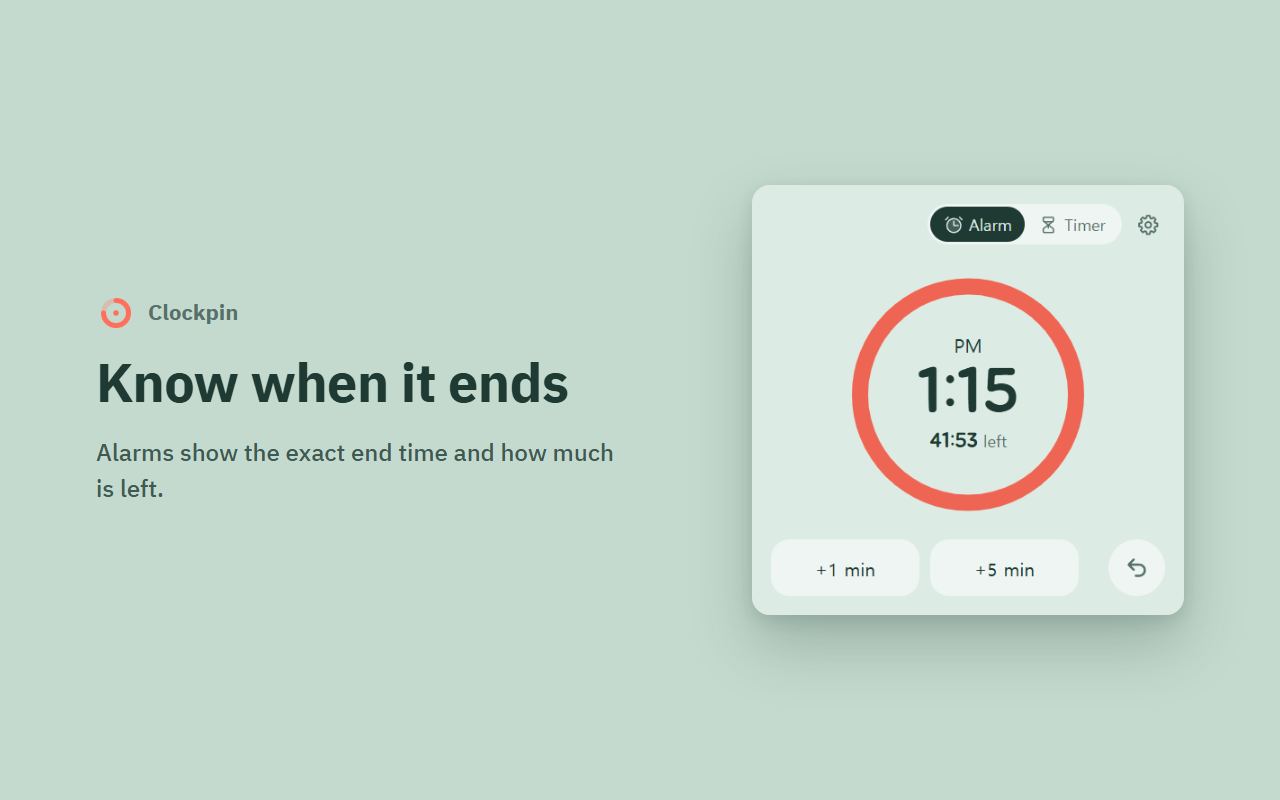
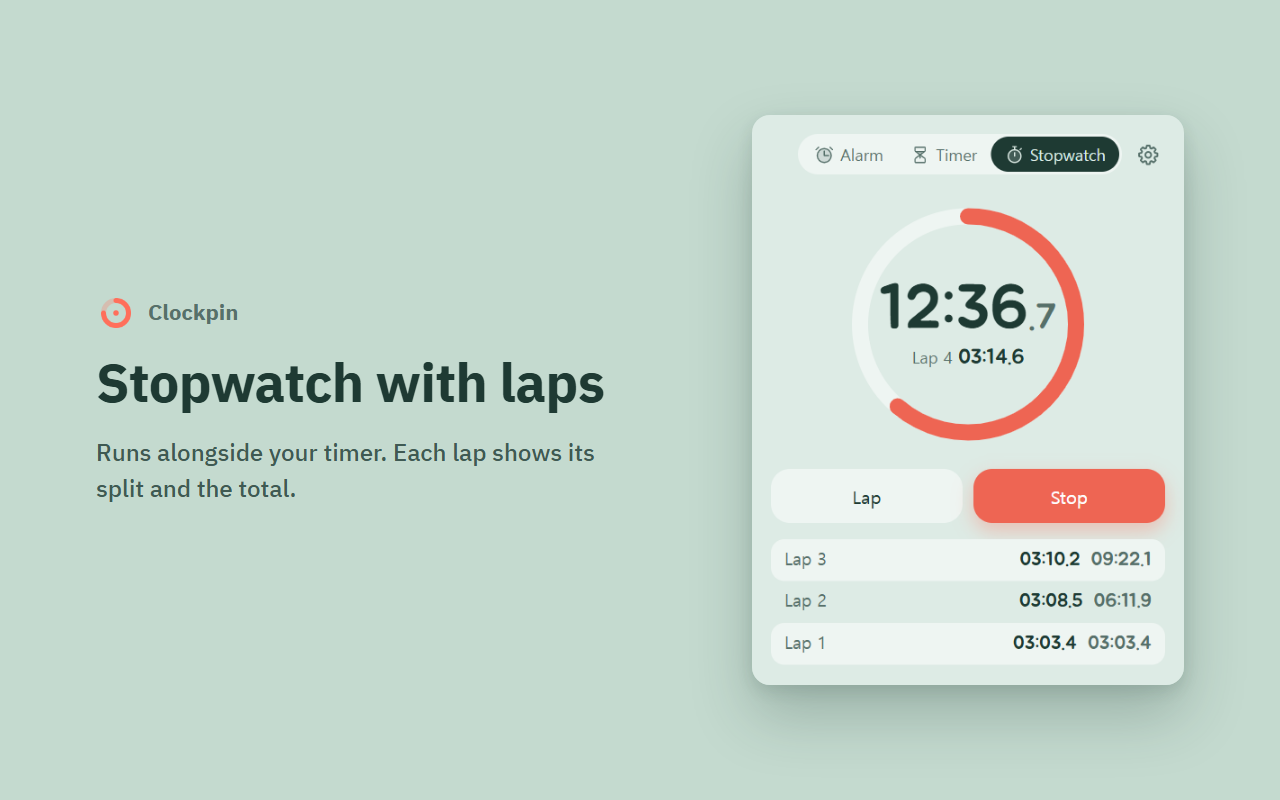
0.2.0 제출 준비: 버전, 요약·설명문, 스크린샷
요약(en·ko)과 자세한 설명에 스톱워치 소개, 배지 예시를 9:59로.
단일 목적·storage 권한 문장에 스톱워치 반영.
스크린샷 4번을 알람 진행 → 스톱워치(랩)로, 세 탭이 보이게 5장 모두 다시 찍음.
compose.py의 다른 PC 절대 경로를 스크립트 기준 상대 경로로.

Not-tested: 대시보드 업로드·심사(사용자가 직접)
Confidence: high

diff --git a/store/tools/compose.py b/store/tools/compose.py
@@ -3,23 +3,23 @@ import os, subprocess, pathlib
 from PIL import Image
 
 S = pathlib.Path(__file__).parent
-STORE = pathlib.Path(r'C:/Users/7make/Dev/Clockpin_261005/store')
+STORE = S.parent
 CHROME = r'C:\Program Files\Google\Chrome\Application\chrome.exe'
-ICON = pathlib.Path(r'C:/Users/7make/Dev/Clockpin_261005/extension/icons/icon128.png')
+ICON = S.parent.parent / 'extension' / 'icons' / 'icon128.png'
 
 CAP = {
     'en': [('Pick the exact time', 'Spin the dial to when you want the alarm — or tap +5m, +10m, +1h.'),
            ('Count down, too', 'Hours, minutes and seconds. Clockpin remembers the last time you used.'),
            ('Pause, add, cancel', 'A big countdown ring, with +1 min and +5 min a click away.'),
-           ('Know when it ends', 'Alarms show the exact end time and how much is left.'),
+           ('Stopwatch with laps', 'Runs alongside your timer. Each lap shows its split and the total.'),
            ("Hard to miss", 'A sound, a notification and a small window when time is up. Snooze in one click.')],
     'ko': [('끝나는 시각을 바로 고르기', '다이얼을 돌려 알람 시각을 맞추거나 +5분, +10분, +1시간을 누르세요.'),
            ('거꾸로 세는 타이머도', '시·분·초로 맞추고, 마지막에 쓴 시간을 기억해요.'),
            ('일시정지, 1분 더, 취소', '남은 시간이 링에 크게 보이고, +1분·+5분은 클릭 한 번이에요.'),
-           ('언제 끝나는지 한눈에', '알람은 끝나는 시각과 남은 시간을 함께 보여 줘요.'),
+           ('랩까지 재는 스톱워치', '타이머와 따로 돌아요. 랩마다 구간 시간과 누적 시간이 보여요.'),
            ('시간이 되면 확실하게', '알림음, 알림, 작은 창으로 알려 줘요. 「5분 더」도 한 번에.')],
 }
-RAW = ['1-alarm', '2-timer', '3-timer-run', '4-alarm-run', '5-alert']
+RAW = ['1-alarm', '2-timer', '3-timer-run', '4-stopwatch', '5-alert']
 
 PAGE = """<!doctype html><html><head><meta charset="utf-8">
 <link rel="stylesheet" href="https://fonts.googleapis.com/css2?family=IBM+Plex+Sans+KR:wght@500;700&display=block">

diff --git a/store/tools/shots.py b/store/tools/shots.py
@@ -78,11 +78,12 @@ async def main():
             await asyncio.sleep(3)
             await theme(sid, 'dark')
             await shot(sid, '3-timer-run', 320)
-            # 4 알람 진행(밝게): 42분 뒤 정각 분
-            await ev(sid, "chrome.runtime.sendMessage({cmd:'startAt', endAt: Math.floor(Date.now()/60000)*60000 + 42*60000}).then(()=>1)")
-            await asyncio.sleep(1.5)
+            # 4 스톱워치(밝게): 12분 34초째, 랩 3개
+            await ev(sid, "chrome.storage.local.set({sw:{acc:0,start:Date.now()-754300,on:true,laps:[183400,371900,562100]}}).then(()=>1)")
+            await ev(sid, "chrome.runtime.sendMessage({cmd:'add', secs:0}).then(()=>1)")
             await theme(sid, 'light')
-            await shot(sid, '4-alarm-run', 320)
+            await ev(sid, "document.querySelector('[data-tab=sw]').click(); 1")
+            await shot(sid, '4-stopwatch', 320)
             # 5 시간 됐을 때 알림 창(어둡게)
             await ev(sid, "chrome.runtime.sendMessage({cmd:'start', secs:2}).then(()=>1)")
             await asyncio.sleep(4)

diff --git a/store/listing.md b/store/listing.md
@@ -1,6 +1,6 @@
 # Clockpin — 웹스토어 등록 자료
 
-2026-10-05 버전 0.1.0을 검토 제출했다(사용자가 실제 크롬에서 동작 확인 후). 다음 버전은 `manifest.json`의 `version`을 올리고 zip을 다시 만든다.
+2026-10-05 버전 0.1.0을 검토 제출했다(사용자가 실제 크롬에서 동작 확인 후). 2026-10-19 0.2.0(스톱워치 탭, 배지 초 단위) 자료를 준비했다 — 대시보드 제출은 사용자가 한다. 다음 버전도 `manifest.json`의 `version`을 올리고 zip을 다시 만든다. 이전 버전이 아직 심사 중이면 대시보드에서 「검토 취소」 후 새 패키지를 올린다.
 
 개발자 대시보드에 그대로 붙여 넣을 내용이다. 영어가 기본 언어이고, 한국어는 대시보드의 「언어 추가」로 넣는다.
 
@@ -10,11 +10,11 @@
 - 스크린샷 1280×800 5장: `store/screenshots/en/1~5.png`, 한국어판 `store/screenshots/ko/1~5.png`
 - 작은 홍보 타일 440×280(필수): `store/promo-small-440x280.png`. 홍보 이미지는 언어별로 못 나누므로 영어로 만들었다.
 - 큰 홍보 타일 1400×560: 선택 사항이라 만들지 않았다.
-- 제출용 zip: `store/clockpin-0.1.0.zip` (`extension/` 내용, `manifest.json`이 맨 위). `.gitignore`가 `*.zip`을 무시하므로 git에는 안 올라간다.
+- 제출용 zip: `store/clockpin-0.2.0.zip` (`extension/` 내용, `manifest.json`이 맨 위). `.gitignore`가 `*.zip`을 무시하므로 git에는 안 올라간다.
 
 스크린샷을 다시 찍을 때: `python store/tools/shots.py <확장 폴더> store/tools/raw_ko`(영어는 `_locales/ko`를 지운 사본으로 `raw_en`), 이어서 `python store/tools/compose.py`. 크롬 실행 파일 경로와 파이썬 `websockets`·`Pillow`가 필요하다.
 
-스크린샷 순서: 1 알람 다이얼 · 2 타이머 다이얼 · 3 타이머 진행 · 4 알람 진행 · 5 시간이 됐을 때 알림 창.
+스크린샷 순서: 1 알람 다이얼 · 2 타이머 다이얼 · 3 타이머 진행 · 4 스톱워치(랩) · 5 시간이 됐을 때 알림 창.
 
 ## 스토어 등록정보
 
@@ -23,13 +23,13 @@
 
 ### 요약(manifest에서 자동으로 들어감, 132자 이내)
 
-- en(100자): Pick the exact time on a dial and get alerted right then — from your toolbar. A countdown timer too.
-- ko: 툴바에서 다이얼로 끝나는 시각을 골라 그때 딱 알려 주는 알람. 거꾸로 세는 타이머도 함께.
+- en(114자): Pick the exact time on a dial and get alerted right then — from your toolbar. A countdown timer and stopwatch too.
+- ko: 툴바에서 다이얼로 끝나는 시각을 골라 그때 딱 알려 주는 알람. 거꾸로 세는 타이머와 스톱워치도 함께.
 
 ### 자세한 설명 — English
 
 ```
-Clockpin is an alarm and countdown timer that lives in your toolbar. Spin a dial to the exact time you want to be reminded, or set a countdown — and get a clear alert when time is up.
+Clockpin is an alarm, countdown timer and stopwatch that lives in your toolbar. Spin a dial to the exact time you want to be reminded, or set a countdown — and get a clear alert when time is up.
 
 Alarm
 • Spin the dial to the time you want (hour, minute, AM/PM), or tap +1m, +5m, +10m, +25m or +1h.
@@ -40,12 +40,16 @@ Timer
 • Pause and resume, or add 1 or 5 minutes while it runs.
 • Clockpin remembers the last time you used, so a 25-minute timer is one click away next time.
 
+Stopwatch
+• Start, stop, resume and reset. Laps show each split and the running total.
+• Runs alongside an alarm or timer, and keeps going when the popup is closed.
+
 When time is up
 • A sound, a desktop notification and a small alert window (each can be turned off).
 • Snooze for 1 or 5 more minutes, or dismiss, in one click.
 
 Also
-• The toolbar badge shows the time left (for example 24m, then 45s).
+• The toolbar badge shows the time left (for example 24m, then 9:59 in the last 10 minutes).
 • Right-click the toolbar icon to start a preset timer (5, 10, 25, 60 minutes by default — change them in Settings).
 • Light and dark themes, or follow your computer.
 • English and Korean.
@@ -56,7 +60,7 @@ Privacy: Clockpin does not collect, send or share any data. Your timer and setti
 ### 자세한 설명 — 한국어
 
 ```
-Clockpin은 툴바에 있는 알람·타이머예요. 다이얼을 돌려 알려 줄 시각을 딱 고르거나, 거꾸로 세는 타이머를 맞추면 시간이 됐을 때 확실하게 알려 줘요.
+Clockpin은 툴바에 있는 알람·타이머·스톱워치예요. 다이얼을 돌려 알려 줄 시각을 딱 고르거나, 거꾸로 세는 타이머를 맞추면 시간이 됐을 때 확실하게 알려 줘요.
 
 알람
 • 다이얼로 시각(오전/오후·시·분)을 고르거나 +1분, +5분, +10분, +25분, +1시간을 누르세요.
@@ -67,12 +71,16 @@ Clockpin은 툴바에 있는 알람·타이머예요. 다이얼을 돌려 알려
 • 일시정지·계속, 도는 중에 +1분·+5분.
 • 마지막에 쓴 시간을 기억해서, 25분 타이머는 다음에도 클릭 한 번이에요.
 
+스톱워치
+• 시작·정지·계속·초기화. 랩마다 구간 시간과 누적 시간이 보여요.
+• 알람·타이머와 따로 돌고, 팝업을 닫아도 계속 재요.
+
 시간이 됐을 때
 • 알림음, 바탕화면 알림, 작은 알림 창으로 알려 줘요(각각 끌 수 있어요).
 • 「1분 더」「5분 더」「끄기」를 한 번에.
 
 그 밖에
-• 툴바 아이콘 위에 남은 시간이 보여요(예: 24m, 45s).
+• 툴바 아이콘 위에 남은 시간이 보여요(예: 24m, 남은 10분부터는 9:59).
 • 툴바 아이콘을 우클릭하면 정해 둔 시간(기본 5·10·25·60분)으로 바로 타이머를 시작해요. 시간은 설정에서 바꿀 수 있어요.
 • 밝게·어둡게, 또는 컴퓨터 설정 따라가기.
 • 영어·한국어 화면.
@@ -85,7 +93,7 @@ Clockpin은 툴바에 있는 알람·타이머예요. 다이얼을 돌려 알려
 ### 단일 목적(Single purpose)
 
 ```
-Clockpin is an alarm and countdown timer: the user sets a time or duration in the toolbar popup and is alerted when it is up.
+Clockpin is a toolbar time tool — an alarm, a countdown timer and a stopwatch: the user sets a time or duration in the toolbar popup and is alerted when it is up, or measures elapsed time.
 ```
 
 ### 권한 사용 이유(Permission justification)
@@ -94,7 +102,7 @@ Clockpin is an alarm and countdown timer: the user sets a time or duration in th
 |---|---|
 | `alarms` | Schedules the moment an alarm or timer ends, so the alert fires even when the popup is closed. |
 | `notifications` | Shows a desktop notification with Snooze and Dismiss buttons when time is up. |
-| `storage` | Saves the running timer, the last timer length and the user's settings locally in the browser. |
+| `storage` | Saves the running timer and stopwatch, the last timer length and the user's settings locally in the browser. |
 | `contextMenus` | Adds preset timers (5, 10, 25, 60 minutes) and Stop to the toolbar icon's right-click menu. |
 | `offscreen` | Plays the alarm sound when time is up; a service worker cannot play audio by itself. |
 
